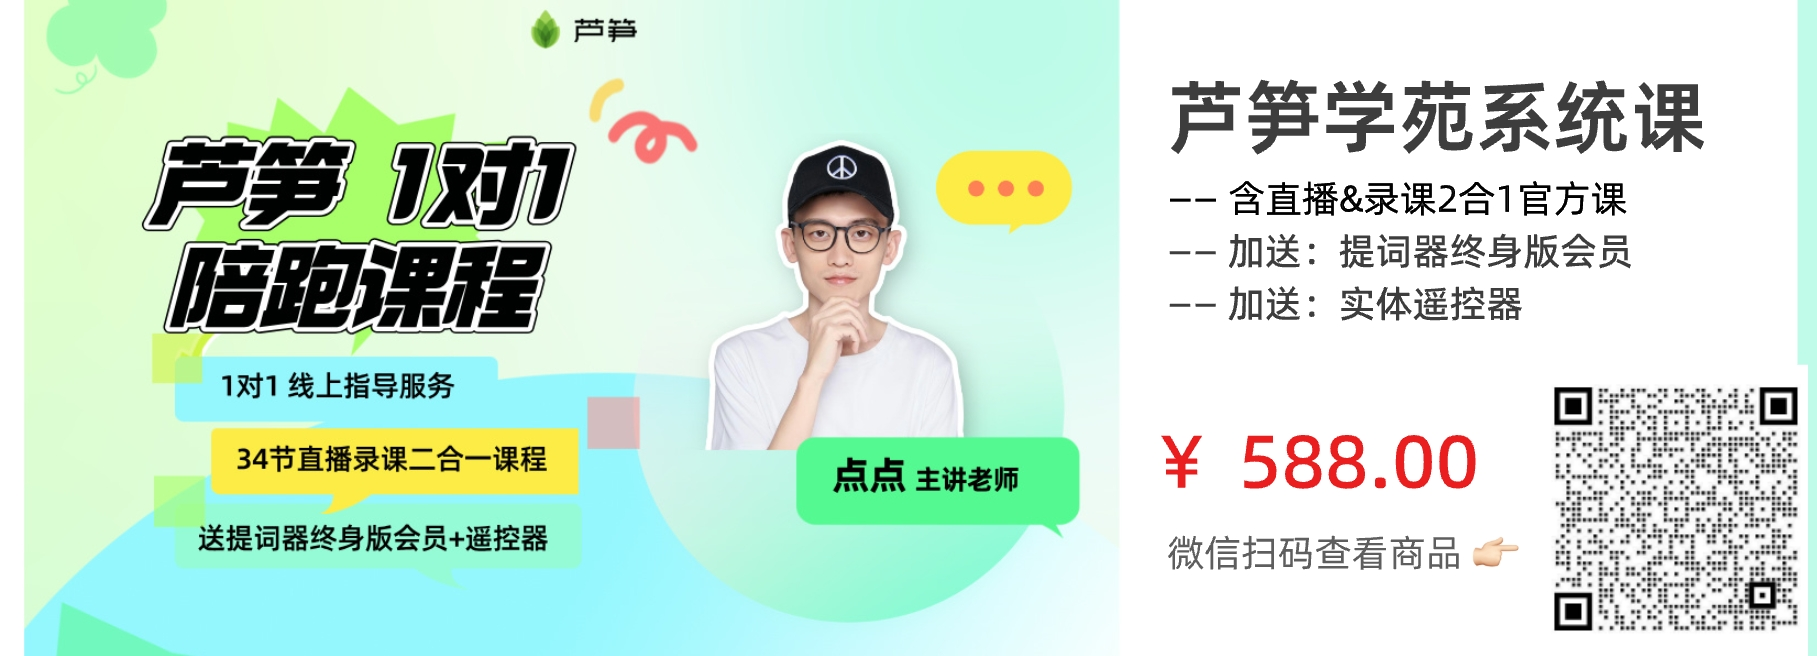
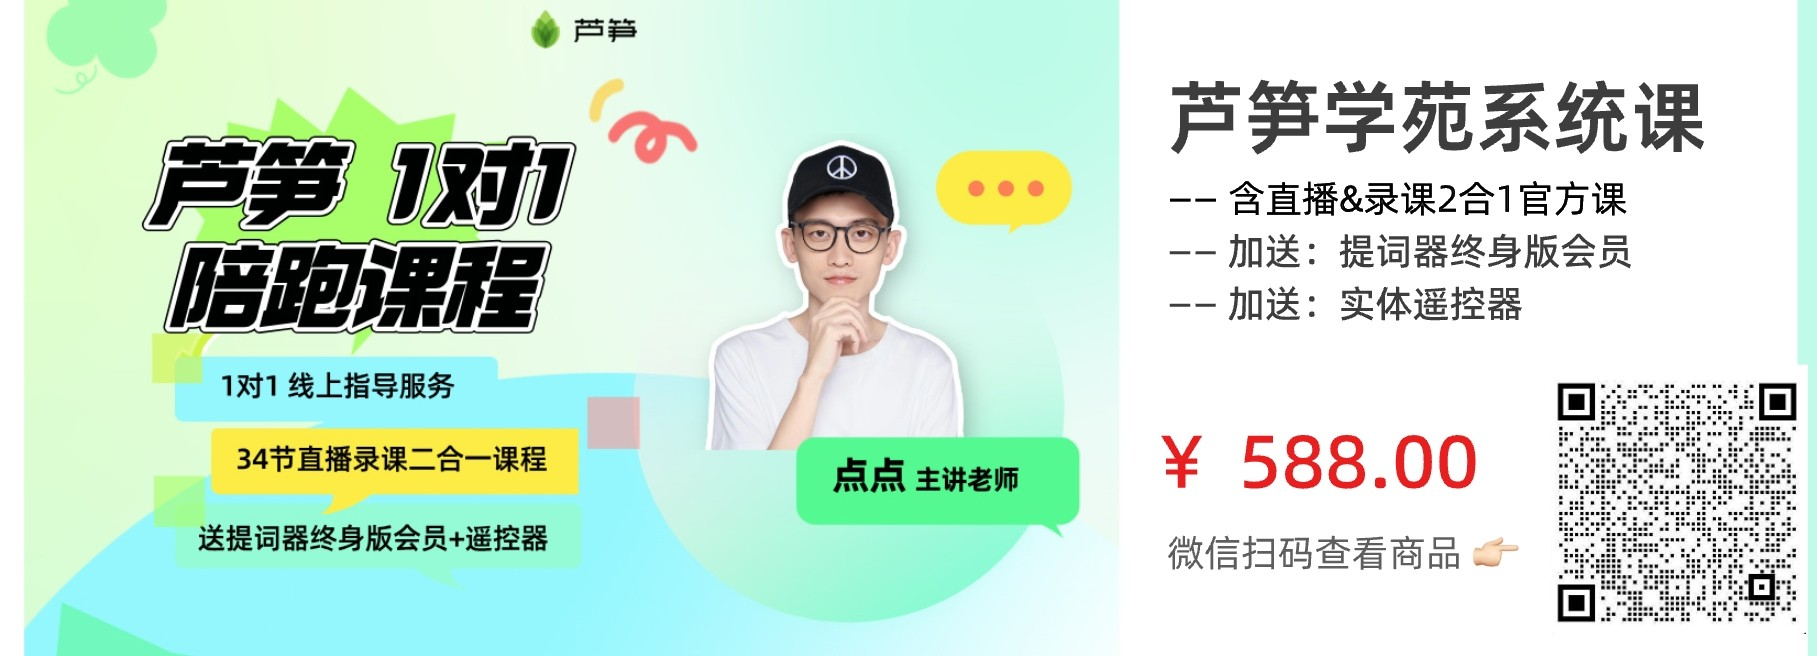
docs: update qr codes

Changed region(s): [[0.8321, 0.5793, 1.0, 0.9756]]

diff --git a/advanced/remote.md b/advanced/remote.md
@@ -2,12 +2,6 @@
 description: 关于如何使用芦笋遥控器，看这篇就够了
 ---
 
-> 购买「芦笋提词器三年或五年会员」后，点击下方链接领取 👇🏻
-
-https://sourl.cn/GMWjF8
-
-购买提词器三年或五年会员赠送的遥控器，可以填写这个表单领取哈，我们将在收到信息的 3 个工作日之内安排寄出
-
 # ⌨ 提词遥控器
 
 > 关于如何使用芦笋遥控器，看这篇就够了
@@ -50,7 +44,7 @@ https://sourl.cn/GMWjF8
 
 若需单独购买遥控器，请扫描下方二维码联系客服购买：
 
-<ImgCenter><img src="/assets/diandian-qrcode.png" alt="" width="375"></ImgCenter>
+<ImgCenter><img src="/assets/tici-qrcode.png" alt="" width="375"></ImgCenter>
 
 ## 三、如何连接电脑 {#connect}
 
